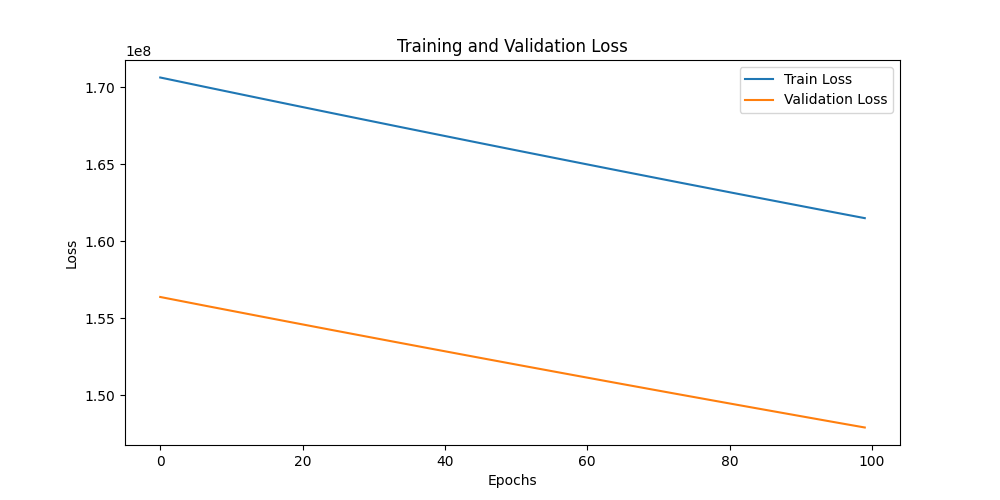
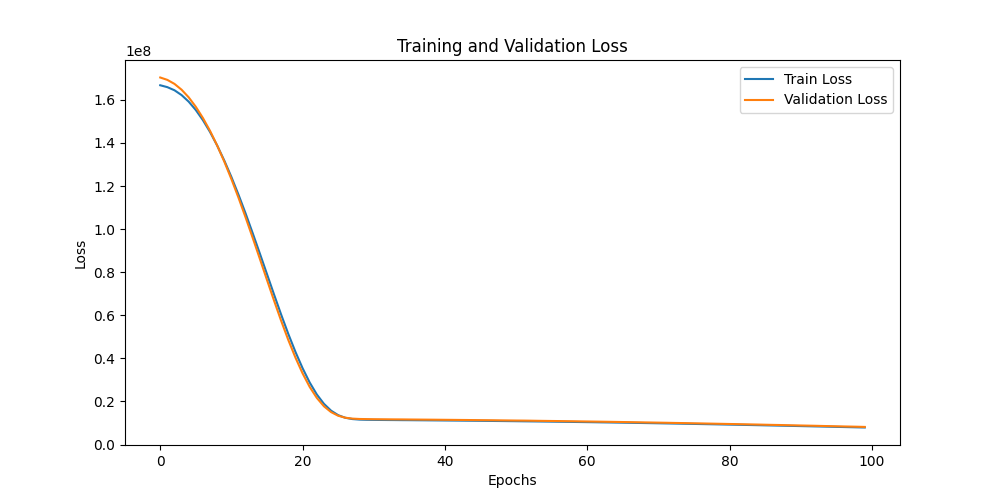
practica2continuacion

diff --git a/src/exercise_02/model.py b/src/exercise_02/model.py
@@ -2,22 +2,31 @@ import torch
 import torch.nn as nn
 
 
-class SimplePerceptron(nn.Module):
-    def __init__(self, input_dim, output_dim):
+class MultiPerceptron(nn.Module):
+    """Red neuronal multicapa para aprender funciones no lineales"""
+    def __init__(self, input_dim, hidden_dims, output_dim):
         super().__init__()
-        self.fc = nn.Linear(input_dim, output_dim)
-        self.activation = nn.Identity()
+        
+        layers = []
+        prev_dim = input_dim
+        
+        # Crear capas ocultas con activación ReLU
+        for hidden_dim in hidden_dims:
+            layers.append(nn.Linear(prev_dim, hidden_dim))
+            layers.append(nn.ReLU())
+            prev_dim = hidden_dim
+        
+        # Capa de salida sin activación (para regresión)
+        layers.append(nn.Linear(prev_dim, output_dim))
+        
+        self.network = nn.Sequential(*layers)
 
     def forward(self, x, use_activation=True):
-        x = self.fc(x)
-        if use_activation:
-            x = self.activation(x)
-        return x
+        return self.network(x)
 
 
 if __name__ == "__main__":
-    model = SimplePerceptron(1, 1)
+    model = MultiPerceptron(1, [16, 8], 1)
     print(model)
-    x = torch.tensor([1.0])
+    x = torch.tensor([[1.0]])
     print(model(x))
-    pass

diff --git a/src/exercise_02/train.py b/src/exercise_02/train.py
@@ -8,7 +8,7 @@ from torch.utils.data import DataLoader, random_split
 from tqdm import tqdm
 
 from .dataset import NoisyRegressionDataset
-from .model import SimplePerceptron
+from .model import MultiPerceptron
 
 def get_device(force: str = "auto") -> torch.device:
     """Return a torch.device based on the `force` option.
@@ -43,7 +43,7 @@ def train_model(output_folder: Path, device: torch.device):
     # Define the model, loss function, and optimizer
     input_dim = 1
     output_dim = 1
-    model = SimplePerceptron(input_dim, output_dim).to(device)
+    model = MultiPerceptron(input_dim, [16, 8],output_dim).to(device)
     criterion = nn.MSELoss()
     optimizer = optim.AdamW(model.parameters(), lr=0.0001)
 

diff --git a/src/exercise_02/evaluate.py b/src/exercise_02/evaluate.py
@@ -8,7 +8,7 @@ import torch
 from torch.utils.data import DataLoader, random_split
 
 from .dataset import NoisyRegressionDataset
-from .model import SimplePerceptron
+from .model import MultiPerceptron
 
 
 def evaluate_and_plot(loader,model, dataset_name, output_folder):
@@ -114,7 +114,7 @@ if __name__ == "__main__":
     test_loader = DataLoader(test_dataset, batch_size=10, shuffle=False)
 
     # Load the best model weights
-    model = SimplePerceptron(input_dim=1, output_dim=1)
+    model = MultiPerceptron(input_dim=1, hidden_dims=[16, 8], output_dim=1)
     model.load_state_dict(torch.load(output_folder / "best_model.pth"))
 
     metrics = {}
